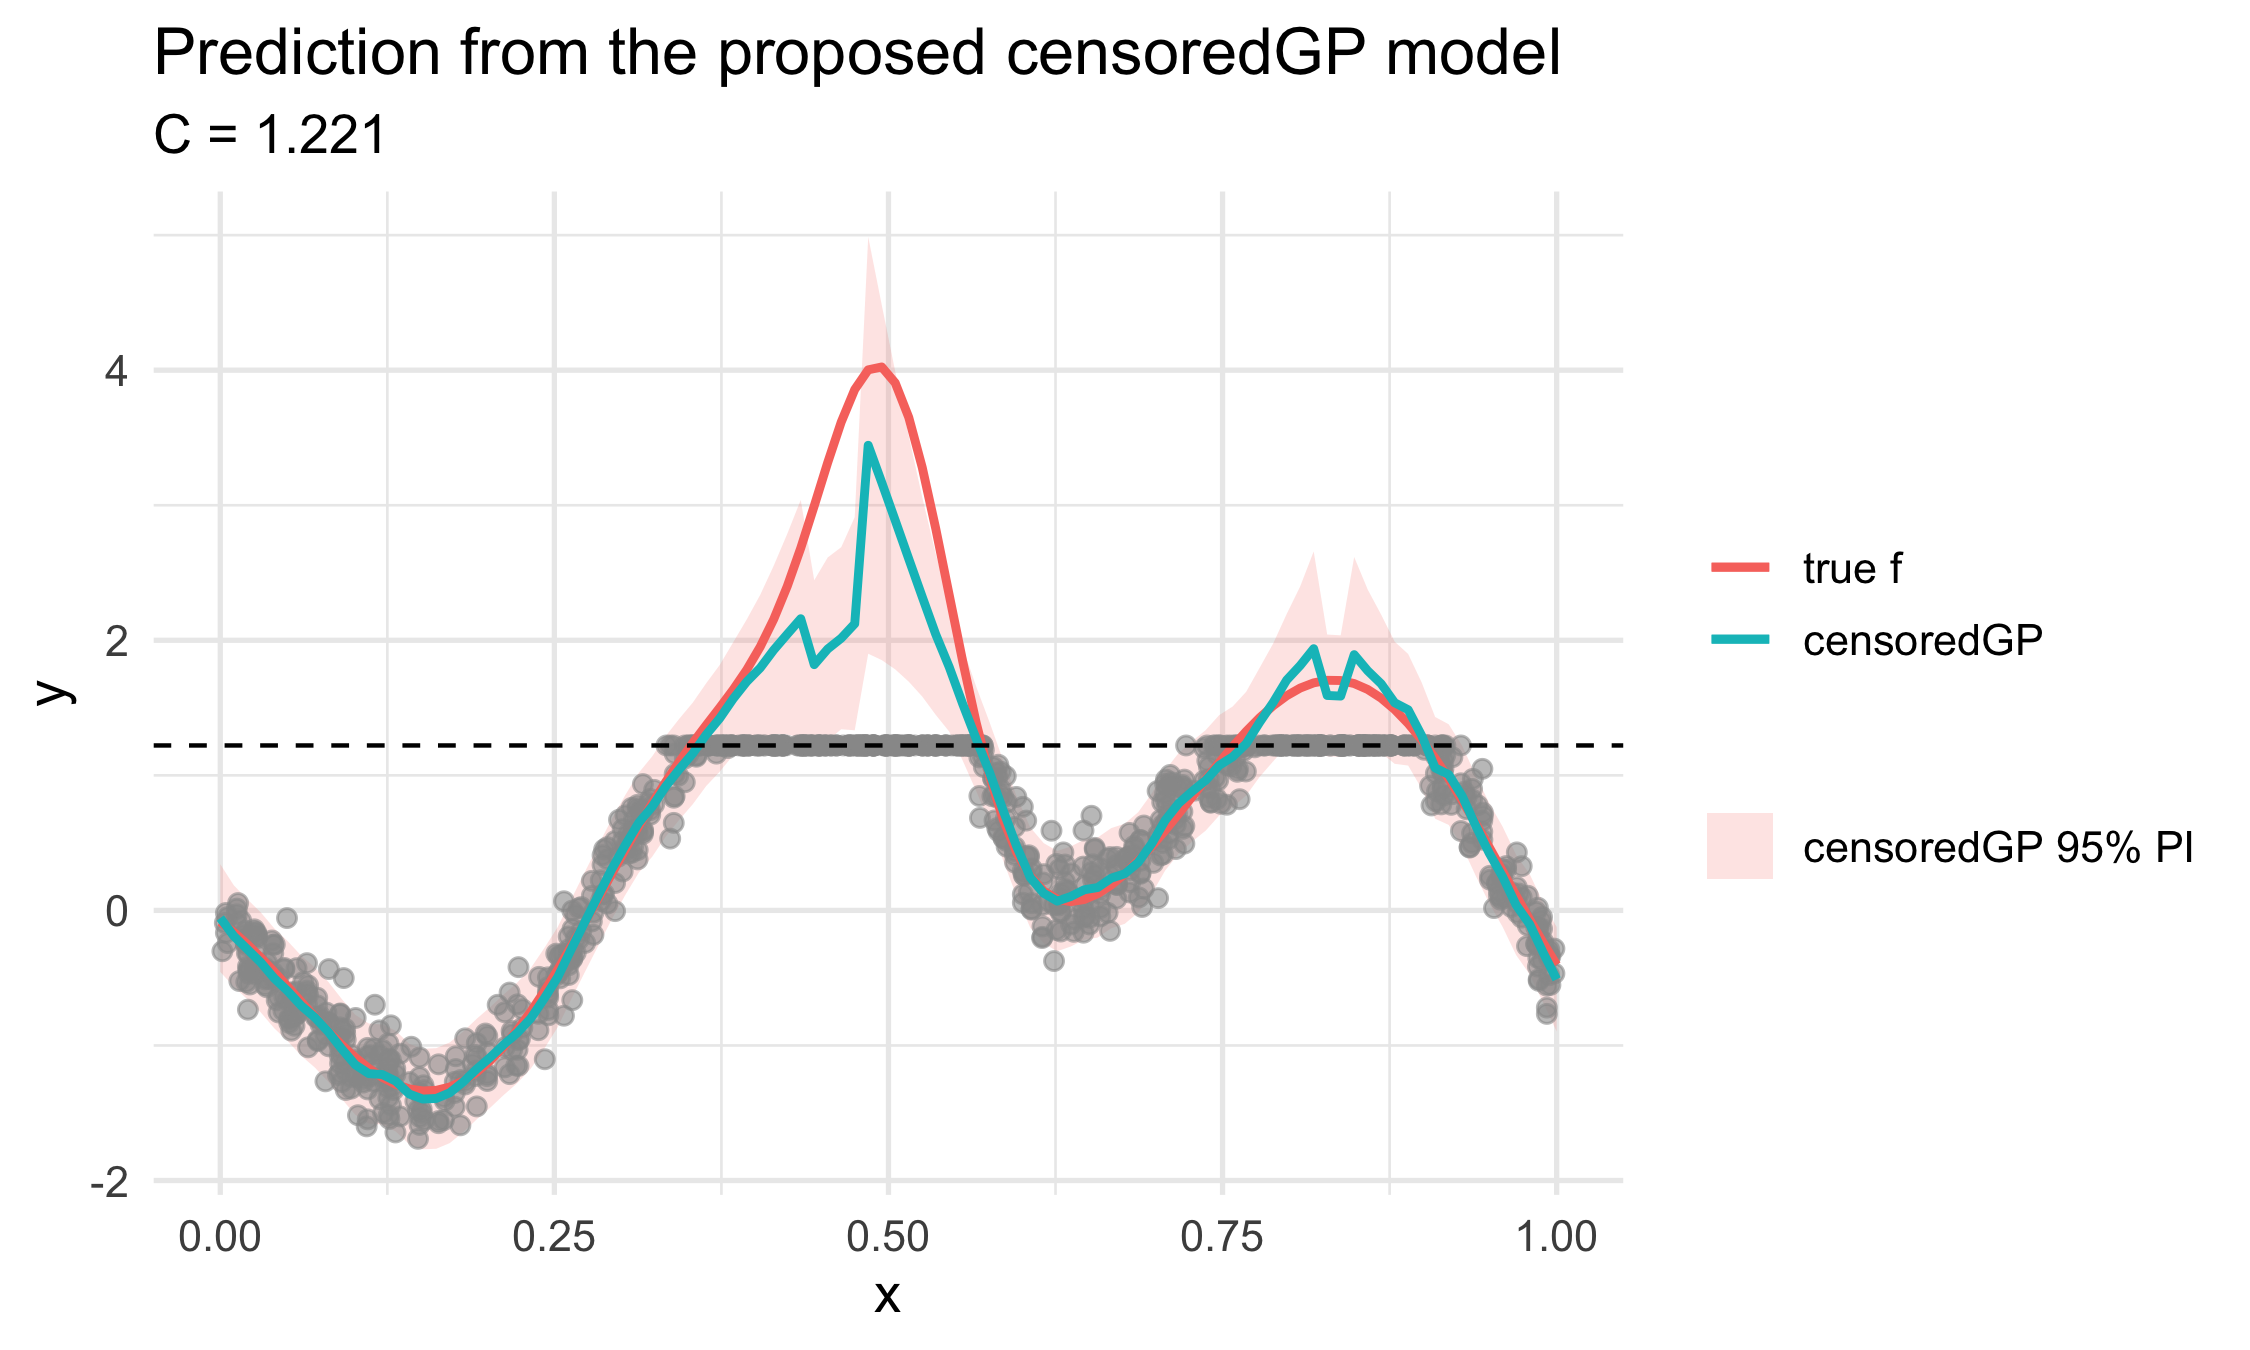
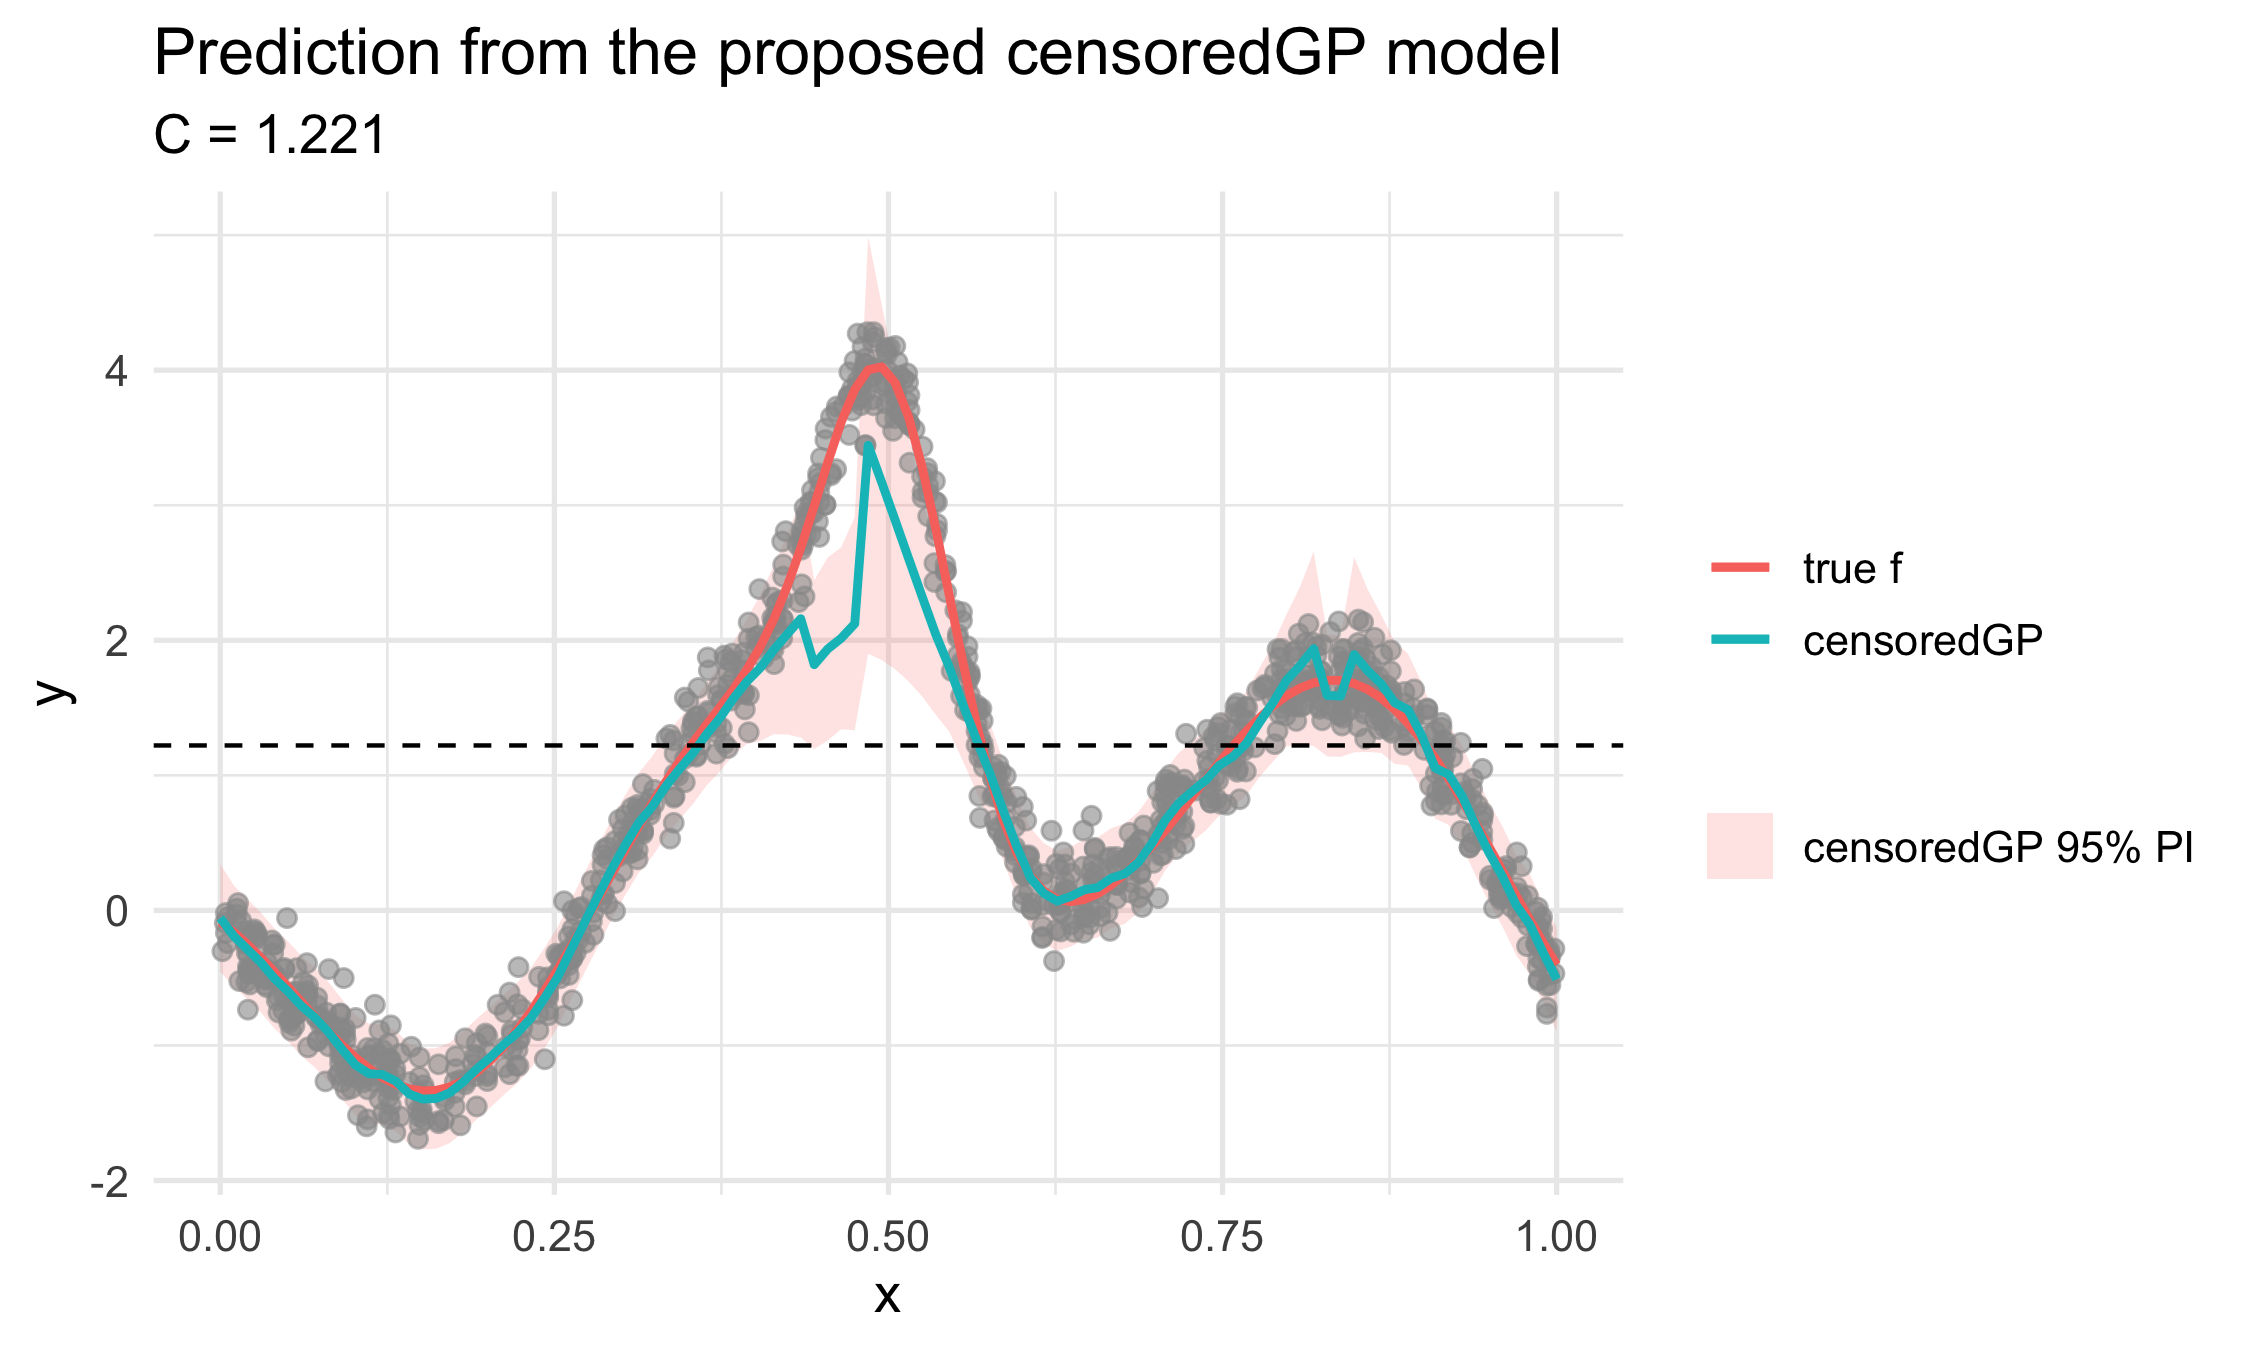
Update README

Changed region(s): [[0.28, 0.2178, 0.4356, 0.56], [0.4978, 0.4356, 0.6533, 0.56]]

diff --git a/README.md b/README.md
@@ -1,36 +1,28 @@
 censoredGP
 ================
 
-- <a href="#censoredgp" id="toc-censoredgp">censoredGP</a>
-  - <a href="#introduction" id="toc-introduction">Introduction</a>
-  - <a href="#repository-structure" id="toc-repository-structure">Repository
-    structure</a>
-  - <a href="#reproducing-the-main-figure"
-    id="toc-reproducing-the-main-figure">Reproducing the main figure</a>
-  - <a href="#load-functions" id="toc-load-functions">Load functions</a>
-  - <a href="#simulate-one-dimensional-censored-data"
-    id="toc-simulate-one-dimensional-censored-data">Simulate one-dimensional
-    censored data</a>
-  - <a href="#explore-the-training-data"
-    id="toc-explore-the-training-data">Explore the training data</a>
-  - <a href="#fit-the-censoredgp-model"
-    id="toc-fit-the-censoredgp-model">Fit the censoredGP model</a>
-  - <a href="#prediction" id="toc-prediction">Prediction</a>
-  - <a href="#visualize-predictions"
-    id="toc-visualize-predictions">Visualize predictions</a>
-  - <a href="#simple-prediction-without-censored-neighbor-moment-adjustment"
-    id="toc-simple-prediction-without-censored-neighbor-moment-adjustment">Simple
-    prediction without censored-neighbor moment adjustment</a>
-  - <a href="#borehole-8-dimensional-simulation"
-    id="toc-borehole-8-dimensional-simulation">Borehole 8-dimensional
-    simulation</a>
-  - <a href="#rendering-this-readme-for-github"
-    id="toc-rendering-this-readme-for-github">Rendering this README for
-    GitHub</a>
-  - <a href="#session-information" id="toc-session-information">Session
-    information</a>
-
-# censoredGP
+- <a href="#introduction" id="toc-introduction">Introduction</a>
+- <a href="#repository-structure" id="toc-repository-structure">Repository
+  structure</a>
+- <a href="#reproducing-the-main-figure"
+  id="toc-reproducing-the-main-figure">Reproducing the main figure</a>
+- <a href="#load-functions" id="toc-load-functions">Load functions</a>
+- <a href="#simulate-one-dimensional-censored-data"
+  id="toc-simulate-one-dimensional-censored-data">Simulate one-dimensional
+  censored data</a>
+- <a href="#explore-the-training-data"
+  id="toc-explore-the-training-data">Explore the training data</a>
+- <a href="#fit-the-censoredgp-model"
+  id="toc-fit-the-censoredgp-model">Fit the censoredGP model</a>
+- <a href="#prediction" id="toc-prediction">Prediction</a>
+- <a href="#visualize-predictions"
+  id="toc-visualize-predictions">Visualize predictions</a>
+- <a href="#simple-prediction-without-censored-neighbor-moment-adjustment"
+  id="toc-simple-prediction-without-censored-neighbor-moment-adjustment">Simple
+  prediction without censored-neighbor moment adjustment</a>
+- <a href="#borehole-8-dimensional-simulation"
+  id="toc-borehole-8-dimensional-simulation">Borehole 8-dimensional
+  simulation</a>
 
 ## Introduction
 
@@ -48,19 +40,7 @@ in `cenGP_fit_pred_functions.R`. The model combines:
 - likelihood-based treatment of right-censored responses
 - Vecchia approximation for scalable computation
 
-This README keeps a vignette-style workflow while explaining the main
-files in the repository. The one-dimensional manuscript example is
-implemented in `VGP_fit_pred_functions_1d.R`, and the corresponding
-figure can be reproduced by running `VGP_run_functions.R`. This script
-produces Plot 1, which compares a standard GP model with the proposed
-censoredGP model.
-
-In addition, the simulation study can be run using
-`cenGP_run_functions.R`. This script applies the proposed censoredGP
-method to the Borehole 8-dimensional example and evaluates prediction
-performance.
-
-This vignette focuses on the following steps:
+This focuses on the following steps:
 
 1.  Simulating censored training and test data
 2.  Exploring the training data
@@ -68,7 +48,7 @@ This vignette focuses on the following steps:
 4.  Generating predictions for new inputs
 5.  Visualizing the predictions against the true function
 
-The main functions used in this vignette are:
+The main functions used are:
 
 - `simulate_1d_censored_data()`
 - `simulate_borehole_censored_data()`
@@ -84,13 +64,13 @@ The main files are:
 
 1.  `cenGP_fit_pred_functions.R`: contains the proposed censoredGP
     fitting and prediction functions.
-2.  `VGP_fit_pred_functions_1d.R`: contains the functions used for the
-    one-dimensional manuscript example.
-3.  `VGP_run_functions.R`: runs the one-dimensional example and produces
-    Plot 1, comparing the standard GP model with the proposed censoredGP
-    model.
-4.  `cenGP_run_functions.R`: runs the Borehole 8-dimensional simulation
+2.  `cenGP_run_functions.R`: runs the Borehole 8-dimensional simulation
     study and evaluates prediction performance.
+3.  `VGP_fit_pred_functions_1d.R`: contains the functions used for the
+    one-dimensional manuscript example.
+4.  `VGP_run_functions.R`: runs the one-dimensional example and produces
+    the following main figure, comparing the standard GP model with the
+    proposed censoredGP model.
 5.  `mc_sov_censored_nd.cpp`: contains the C++ implementation used for
     Monte Carlo simulation under censoring.
 6.  `mc_sov_cpp_usage.R`: provides an example of how to call the C++
@@ -337,9 +317,9 @@ fit$final_log_likelihood
 #> [1] -22.42993
 fit$optim_time
 #>    user  system elapsed 
-#>   0.263   0.413  60.046
+#>   0.261   0.420  58.370
 fit$total_seconds
-#> [1] 60.35059
+#> [1] 58.65458
 fit$used_parallel
 #> [1] TRUE
 ```
@@ -353,27 +333,6 @@ The estimated parameters are:
 - `beta_Intercept`: intercept in the mean function.
 
 ## Prediction
-
-The test data are defined on a fixed 100-point grid:
-
-``` r
-head(test_data)
-#>           x1           y ID  y_censored censored
-#> 1 0.00000000 -0.08466849  1 -0.08466849        0
-#> 2 0.01010101 -0.16183861  2 -0.16183861        0
-#> 3 0.02020202 -0.25079116  3 -0.25079116        0
-#> 4 0.03030303 -0.34931306  4 -0.34931306        0
-#> 5 0.04040404 -0.45497636  5 -0.45497636        0
-#> 6 0.05050505 -0.56518751  6 -0.56518751        0
-tail(test_data)
-#>            x1           y  ID  y_censored censored
-#> 95  0.9494949  0.46835793  95  0.46835793        0
-#> 96  0.9595960  0.28901885  96  0.28901885        0
-#> 97  0.9696970  0.10938337  97  0.10938337        0
-#> 98  0.9797980 -0.06767334  98 -0.06767334        0
-#> 99  0.9898990 -0.23933537  99 -0.23933537        0
-#> 100 1.0000000 -0.40290110 100 -0.40290110        0
-```
 
 We generate predictions using `predict_censored_gp_nn_with_censoring()`.
 This prediction function conditions on nearby uncensored and censored
@@ -394,23 +353,6 @@ pred <- predict_censored_gp_nn_with_censoring(
   verbose = FALSE
 )
 
-pred$average_interval
-#> [1] 0.9181387
-head(pred$results_df)
-#>   ID_test  mean_pred   var_pred   CI_lower    CI_upper interval_length n_total
-#> 1       1 -0.0565998 0.04138639 -0.4553279  0.34212833       0.7974563      20
-#> 2       2 -0.1896147 0.03671581 -0.5651706  0.18594129       0.7511119      20
-#> 3       3 -0.2871950 0.03569056 -0.6574703  0.08308030       0.7405506      20
-#> 4       4 -0.3852831 0.03568647 -0.7555372 -0.01502901       0.7405082      20
-#> 5       5 -0.5029378 0.03562846 -0.8728909 -0.13298475       0.7399061      20
-#> 6       6 -0.5981471 0.03567716 -0.9683529 -0.22794133       0.7404116      20
-#>   n_cens n_uncens
-#> 1      0       20
-#> 2      0       20
-#> 3      0       20
-#> 4      0       20
-#> 5      0       20
-#> 6      0       20
 head(pred$merged_df)
 #>   ID         x1           y  y_censored censored  mean_pred   var_pred
 #> 1  1 0.00000000 -0.08466849 -0.08466849        0 -0.0565998 0.04138639
@@ -458,7 +400,7 @@ p1 <- ggplot(cGP, aes(x = x1)) +
   ) +
   geom_point(
     data = train_fit,
-    aes(x = x1, y = y),
+    aes(x = x1, y = y_raw),
     color = "grey60",
     alpha = 0.6,
     size = 1.8,
@@ -539,7 +481,7 @@ p2 <- ggplot(simple_df, aes(x = x1)) +
   ) +
   geom_point(
     data = train_fit,
-    aes(x = x1, y = y),
+    aes(x = x1, y = y_raw),
     color = "grey60",
     alpha = 0.45,
     size = 1.4,
@@ -576,62 +518,3 @@ This script applies the proposed censoredGP method to an 8-dimensional
 Borehole example and evaluates prediction performance. Because this
 simulation is larger than the one-dimensional illustration, it is not
 run automatically when knitting the README.
-
-## Rendering this README for GitHub
-
-GitHub does not run the R code in `README.Rmd`. Instead, render the file
-locally to create `README.md` and the associated figure files:
-
-``` r
-rmarkdown::render("README.Rmd", output_format = "github_document")
-```
-
-After rendering, commit both the markdown file and the generated figure
-files:
-
-``` bash
-git add README.Rmd README.md README_files figures *.R *.cpp
-git commit -m "Add vignette-style README for censoredGP"
-git push
-```
-
-## Session information
-
-``` r
-sessionInfo()
-#> R version 4.2.2 (2022-10-31)
-#> Platform: aarch64-apple-darwin20 (64-bit)
-#> Running under: macOS 26.5.1
-#> 
-#> Matrix products: default
-#> BLAS:   /Library/Frameworks/R.framework/Versions/4.2-arm64/Resources/lib/libRblas.0.dylib
-#> LAPACK: /Library/Frameworks/R.framework/Versions/4.2-arm64/Resources/lib/libRlapack.dylib
-#> 
-#> locale:
-#> [1] en_US.UTF-8/en_US.UTF-8/en_US.UTF-8/C/en_US.UTF-8/en_US.UTF-8
-#> 
-#> attached base packages:
-#> [1] stats     graphics  grDevices utils     datasets  methods   base     
-#> 
-#> other attached packages:
-#> [1] ggplot2_3.4.0
-#> 
-#> loaded via a namespace (and not attached):
-#>  [1] Rcpp_1.0.12           pillar_1.10.0         compiler_4.2.2       
-#>  [4] RColorBrewer_1.1-3    highr_0.11            tools_4.2.2          
-#>  [7] digest_0.6.35         lattice_0.20-45       evaluate_1.0.5       
-#> [10] lifecycle_1.0.5       tibble_3.2.1          gtable_0.3.6         
-#> [13] pkgconfig_2.0.3       rlang_1.1.3           Matrix_1.6-5         
-#> [16] cli_3.6.2             rstudioapi_0.19.0     yaml_2.3.8           
-#> [19] parallel_4.2.2        mvtnorm_1.2-5         xfun_0.44            
-#> [22] fastmap_1.2.0         withr_3.0.2           dplyr_1.1.4          
-#> [25] knitr_1.42            generics_0.1.3        vctrs_0.6.5          
-#> [28] stats4_4.2.2          grid_4.2.2            tidyselect_1.2.1     
-#> [31] glue_1.8.0            R6_2.6.1              randtoolbox_2.0.4    
-#> [34] TruncatedNormal_2.2.2 optimParallel_1.0-2   tmvtnorm_1.6         
-#> [37] rmarkdown_2.20        alabama_2025.1.0      farver_2.1.2         
-#> [40] magrittr_2.0.3        scales_1.4.0          htmltools_0.5.8.1    
-#> [43] numDeriv_2016.8-1.1   nleqslv_3.3.5         labeling_0.4.3       
-#> [46] sandwich_3.1-1        rngWELL_0.10-9        gmm_1.8              
-#> [49] FNN_1.1.4             zoo_1.8-12
-```
